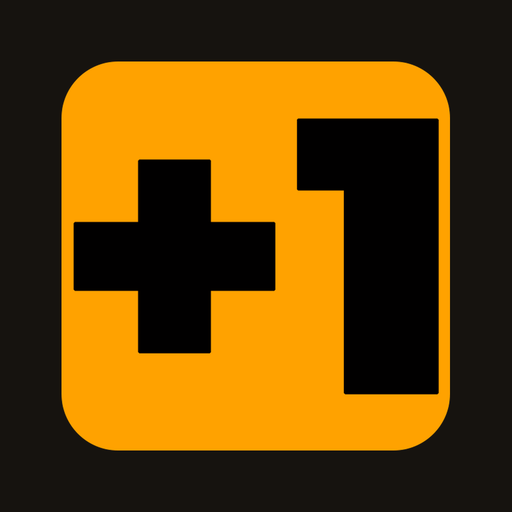
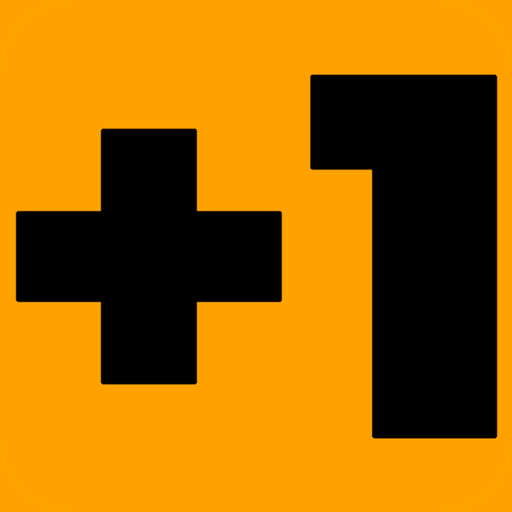
Add files via upload

diff --git a/sw.js b/sw.js
@@ -1,7 +1,7 @@
 // Service worker mínimo. Cachea solo los archivos estáticos propios para que la
 // app abra rápido y funcione sin conexión a nivel de interfaz. Nunca cachea el
 // SDK de Firebase ni las peticiones a Firestore/Auth (esas van siempre a la red).
-const CACHE = "carga-v29";
+const CACHE = "carga-v30";
 const ASSETS = [
   "./",
   "./index.html",